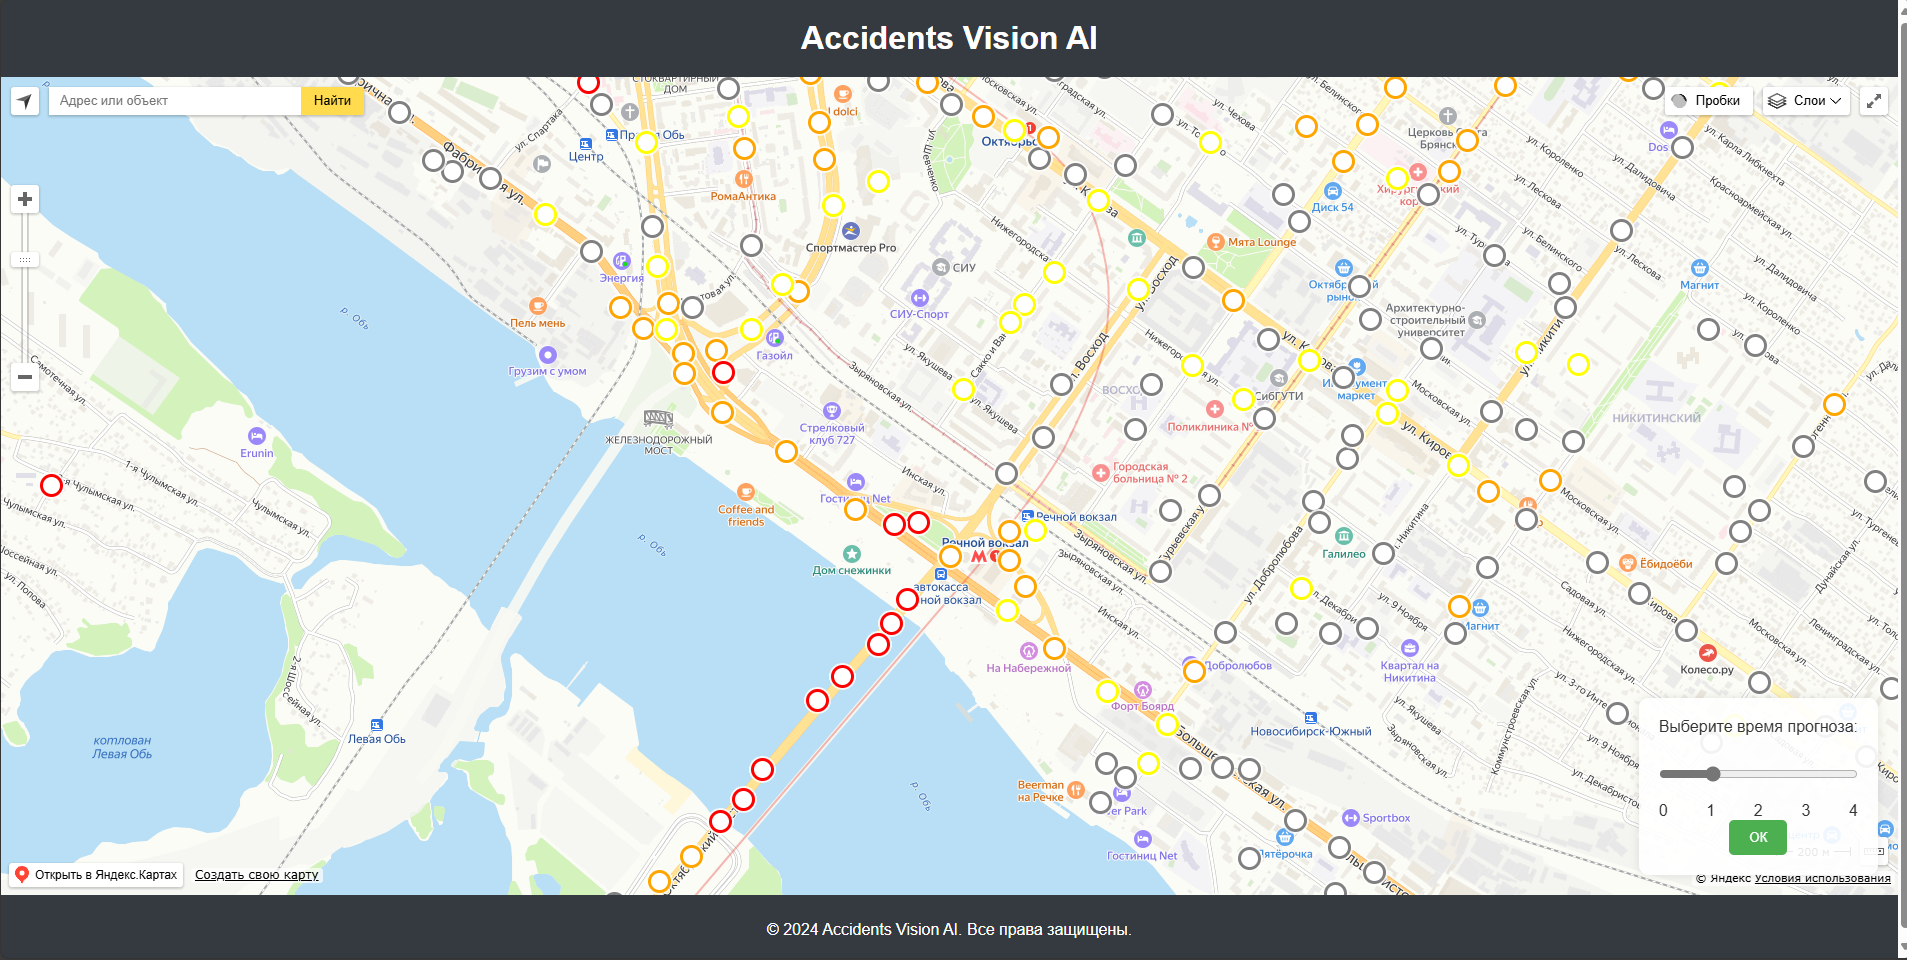
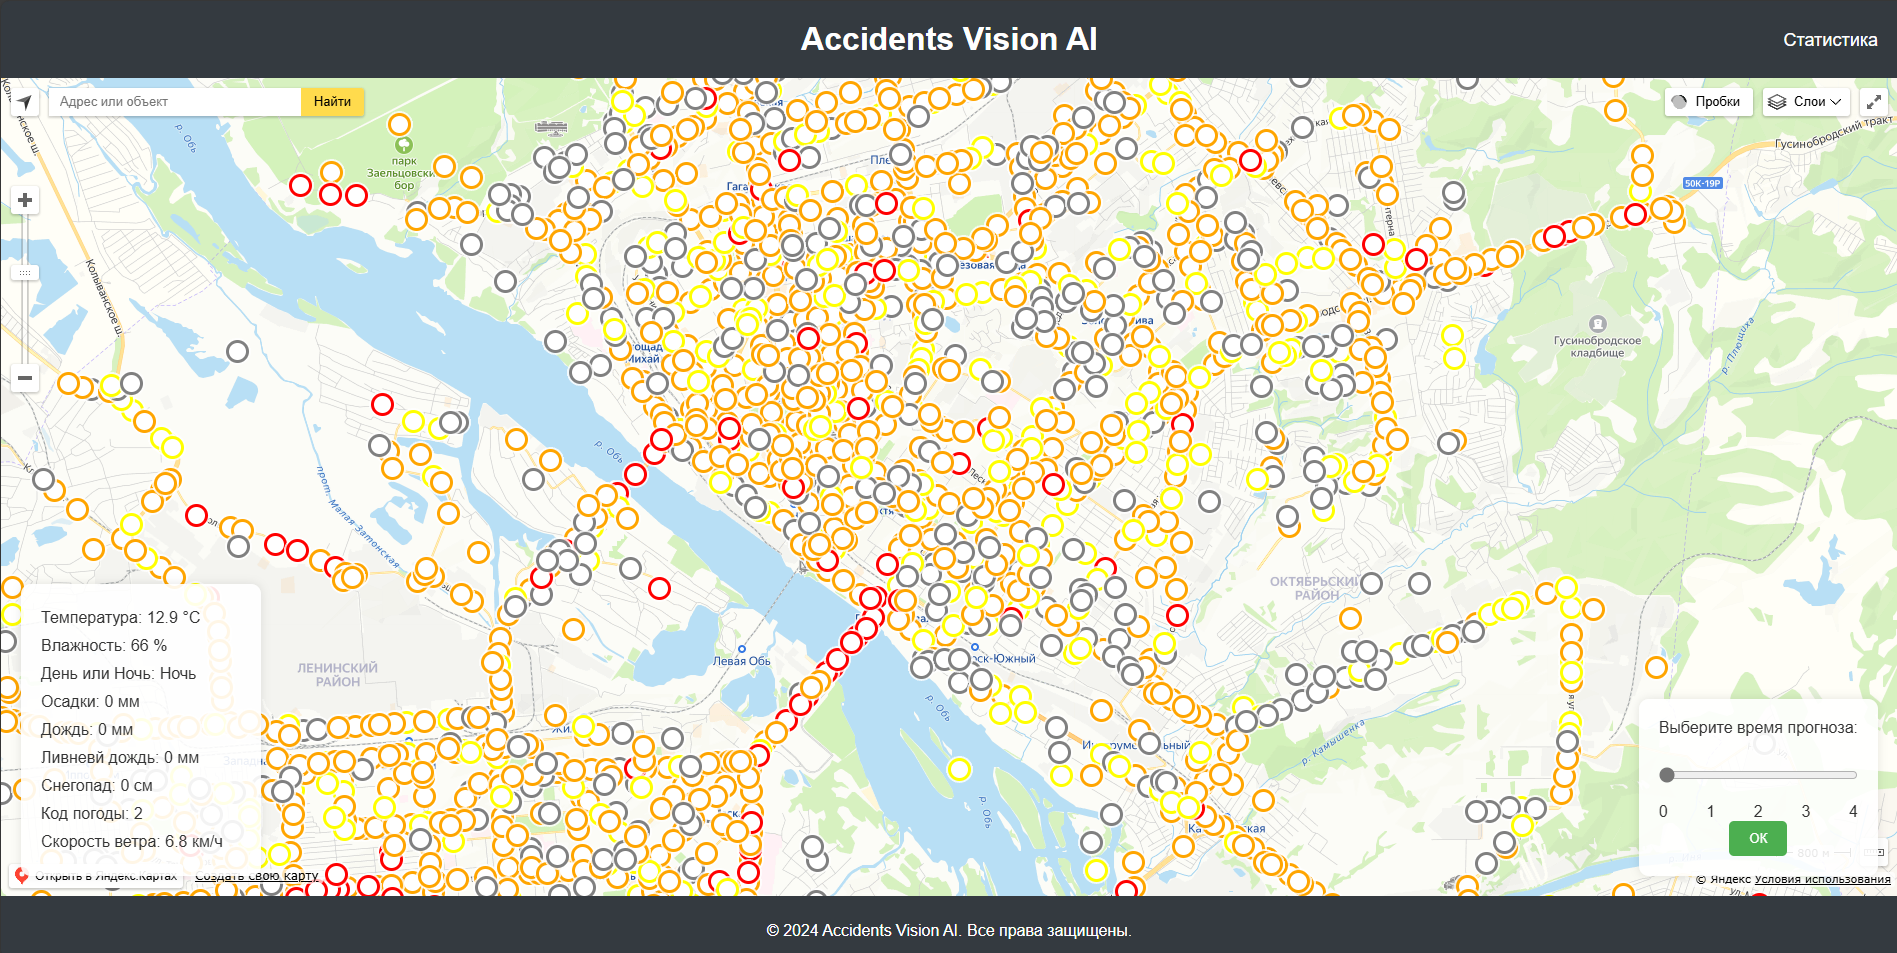
Add weather card and stati

diff --git a/script.js b/script.js
@@ -76,4 +76,29 @@ function init() {
 
     // Вызов функции для получения и отображения данных при загрузке страницы
     getCoordinates('http://127.0.0.1:8000/current-situation');
+    fetchWeatherData();
+}
+
+// Функция для получения данных о погоде
+async function fetchWeatherData() {
+    try {
+        const response = await fetch('https://api.open-meteo.com/v1/forecast?latitude=55.0415&longitude=82.9346&current=temperature_2m,relative_humidity_2m,is_day,precipitation,rain,showers,snowfall,weather_code,wind_speed_10m&timezone=auto');
+        const data = await response.json();
+        displayWeatherData(data.current);
+    } catch (error) {
+        console.error('Ошибка при получении данных о погоде:', error);
+    }
+}
+
+// Функция для отображения данных о погоде
+function displayWeatherData(weather) {
+    document.getElementById('temperature').textContent = `${weather.temperature_2m} °C`;
+    document.getElementById('humidity').textContent = `${weather.relative_humidity_2m} %`;
+    document.getElementById('day-night').textContent = weather.is_day ? 'День' : 'Ночь';
+    document.getElementById('precipitation').textContent = `${weather.precipitation} мм`;
+    document.getElementById('rain').textContent = `${weather.rain} мм`;
+    document.getElementById('showers').textContent = `${weather.showers} мм`;
+    document.getElementById('snowfall').textContent = `${weather.snowfall} см`;
+    document.getElementById('weather-code').textContent = weather.weather_code;
+    document.getElementById('wind-speed').textContent = `${weather.wind_speed_10m} км/ч`;
 }

diff --git a/styles.css b/styles.css
@@ -14,10 +14,26 @@ header {
     color: white;
     padding: 20px;
     text-align: center;
+    position: relative;
 }
 
-h1 {
+header h1 {
     margin: 0;
+    display: inline-block;
+}
+
+.statistics-link {
+    position: absolute;
+    right: 20px;
+    top: 50%;
+    transform: translateY(-50%);
+    color: white;
+    text-decoration: none;
+    font-size: 18px;
+}
+
+.statistics-link:hover {
+    text-decoration: underline;
 }
 
 main {
@@ -27,7 +43,7 @@ main {
 }
 
 #map {
-    flex: 1;
+    width: 100%;
     height: calc(100vh - 140px); /* Высота карты минус высота header и footer */
 }
 
@@ -71,6 +87,24 @@ main {
 
 .slider-container button:hover {
     background-color: #45a049;
+}
+
+.weather-container {
+    position: absolute;
+    bottom: 20px;
+    left: 20px;
+    background-color: rgba(255, 255, 255, 0.9);
+    padding: 20px;
+    border-radius: 10px;
+    box-shadow: 0 0 10px rgba(0, 0, 0, 0.1);
+    display: flex;
+    flex-direction: column;
+    align-items: flex-start;
+    width: 200px;
+}
+
+.weather-container p {
+    margin: 5px 0;
 }
 
 footer {

diff --git a/index.html b/index.html
@@ -11,6 +11,7 @@
 <body>
     <header>
         <h1>Accidents Vision AI</h1>
+        <a href="statistics.html" class="statistics-link">Статистика</a>
     </header>
     <main>
         <div id="map"></div>
@@ -25,6 +26,17 @@
                 <span>4</span>
             </div>
             <button id="ok-button">ОК</button>
+        </div>
+        <div class="weather-container" id="weather-container">
+            <p>Температура: <span id="temperature"></span></p>
+            <p>Влажность: <span id="humidity"></span></p>
+            <p>День или Ночь: <span id="day-night"></span></p>
+            <p>Осадки: <span id="precipitation"></span></p>
+            <p>Дождь: <span id="rain"></span></p>
+            <p>Ливневй дождь: <span id="showers"></span></p>
+            <p>Снегопад: <span id="snowfall"></span></p>
+            <p>Код погоды: <span id="weather-code"></span></p>
+            <p>Скорость ветра: <span id="wind-speed"></span></p>
         </div>
     </main>
     <footer>

diff --git a/statistics.html b/statistics.html
@@ -1,0 +1,22 @@
+<!DOCTYPE html>
+<html lang="ru">
+<head>
+    <meta charset="UTF-8">
+    <meta name="viewport" content="width=device-width, initial-scale=1.0">
+    <title>Статистика - Accidents Vision AI</title>
+    <link rel="stylesheet" href="styles.css">
+</head>
+<body>
+    <header>
+        <h1>Accidents Vision AI</h1>
+        <a href="index.html" class="statistics-link">Главная</a>
+    </header>
+    <main>
+        <h2>Статистика</h2>
+        <!-- Добавьте здесь содержимое страницы статистики -->
+    </main>
+    <footer>
+        <p>&copy; 2024 Accidents Vision AI. Все права защищены.</p>
+    </footer>
+</body>
+</html>

diff --git a/README.md b/README.md
@@ -1,3 +1,2 @@
 ![img.png](img.png)
-
 Текущее состояние проекта, а именно клиентской части
